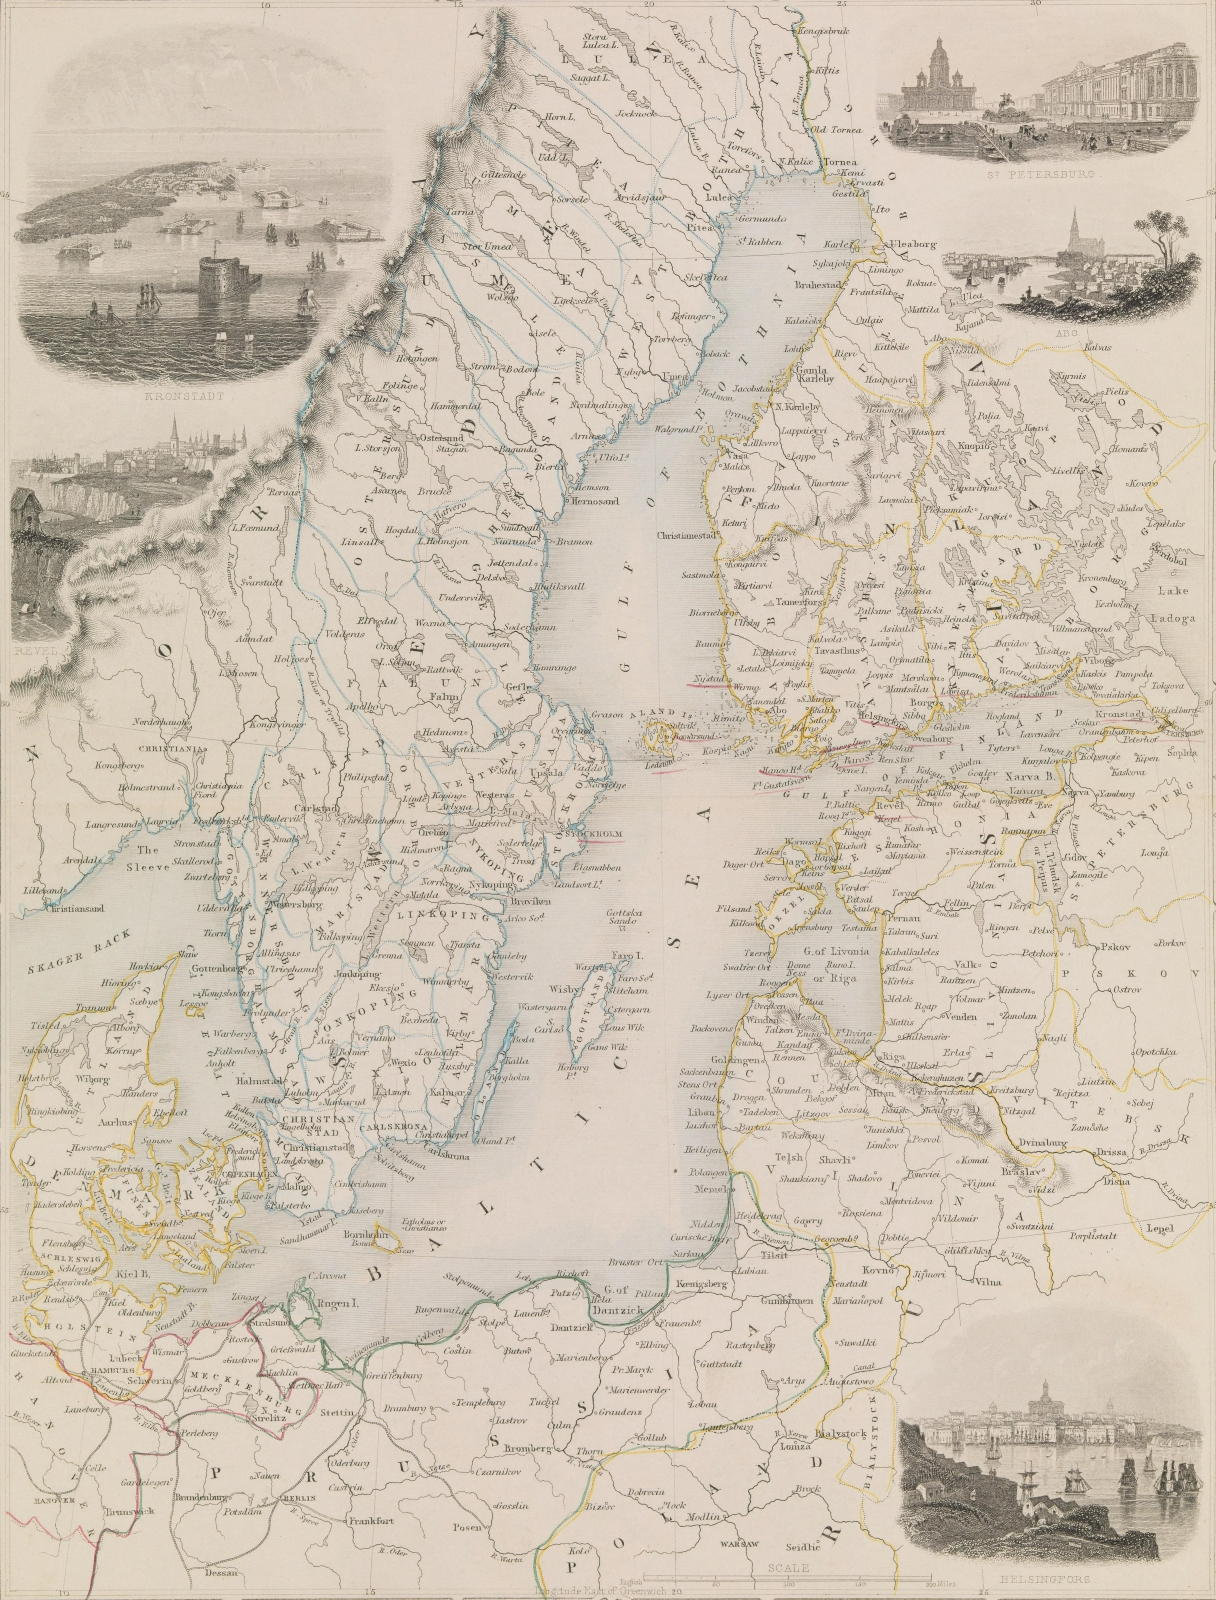
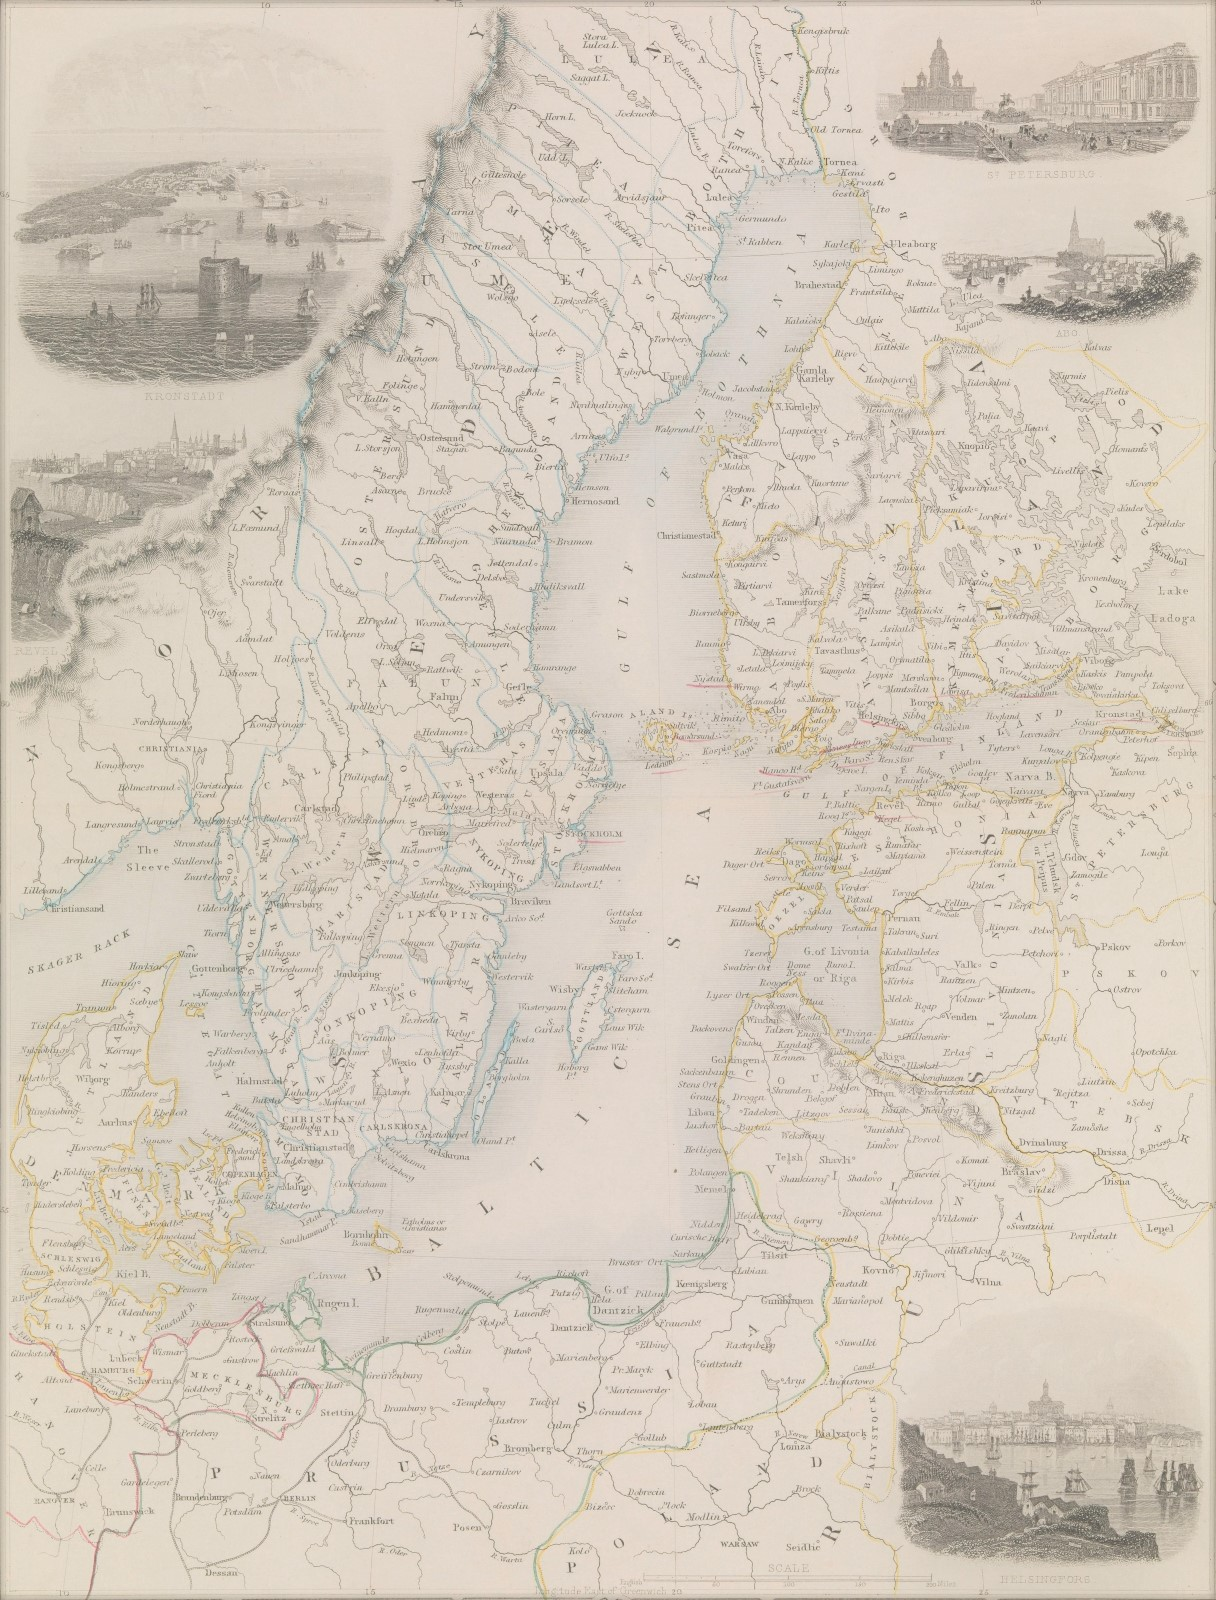
Added text-wrap and lowered picture colors.

diff --git a/_layouts/default.html b/_layouts/default.html
@@ -15,11 +15,11 @@
     <!-- HEADER -->
     <div class="header">
         <header class="inner-header" style="text-align: right;">
-            <a id="ENG" style="top: -10px; position: relative;" href="/stemma-workaround/eng/"><img alt="ENG" src="/stemma-workaround/assets/images/united-kingdom-flag-wave-icon-32.png" style="width:24px; height:16px"/></a>
-            <a id="FIN"  style="top: -10px; position: relative;" href="/stemma-workaround/fin/"><img alt="FIN" src="/stemma-workaround/assets/images/finland-flag-wave-icon-32.png" style="width:24px; height:16px"/></a>
-            <a id="SWE" style="top: -10px; position: relative;" href="/"><img alt="SWE" src="/stemma-workaround/assets/images/sweden-flag-wave-icon-32.png" style="width:24px; height:16px"/></a>
-	    <a id="GER" style="top: -10px; position: relative;" href="/"><img alt="GER" src="/stemma-workaround/assets/images/germany-flag-wave-icon-32.png" style="width:24px; height:16px"/></a>
-	    <a id="RUS"  style="top: -10px; position: relative;" href="/stemma-workaround/"><img alt="RUS" src="/stemma-workaround/assets/images/russia-flag-wave-icon-32.png" style="width:24px; height:16px"/></a>
+            <a id="ENG" style="top: -20px; position: relative;" href="/stemma-workaround/eng/"><img alt="ENG" src="/stemma-workaround/assets/images/united-kingdom-flag-wave-icon-32.png" style="width:24px; height:16px"/></a>
+            <a id="FIN"  style="top: -20px; position: relative;" href="/stemma-workaround/fin/"><img alt="FIN" src="/stemma-workaround/assets/images/finland-flag-wave-icon-32.png" style="width:24px; height:16px"/></a>
+            <a id="SWE" style="top: -20px; position: relative;" href="/"><img alt="SWE" src="/stemma-workaround/assets/images/sweden-flag-wave-icon-32.png" style="width:24px; height:16px"/></a>
+	    <a id="GER" style="top: -20px; position: relative;" href="/"><img alt="GER" src="/stemma-workaround/assets/images/germany-flag-wave-icon-32.png" style="width:24px; height:16px"/></a>
+	    <a id="RUS"  style="top: -20px; position: relative;" href="/stemma-workaround/"><img alt="RUS" src="/stemma-workaround/assets/images/russia-flag-wave-icon-32.png" style="width:24px; height:16px"/></a>
 
             <h1 id="project_title" style="text-align: center;">STEMMA</h1>
         </header>
@@ -37,8 +37,8 @@
     </div>
 
     <!-- FOOTER  -->
-    <div id="footer_wrap" class="outer">
-      <footer class="inner">
+    <div class="footer">
+      <footer class="inner-footer">
         <p class="contacts">Contact us <a name="contacts" href="mailto:stemma@example.com">Stemma Email</a></p>
         <p>Visit our FB group <a href="https://facebook.com">Stemma FB</a></p>
         <p>Join our Telegram group <a href="https://telegram.com">Stemma Telegram</a></p>

diff --git a/assets/css/style.scss b/assets/css/style.scss
@@ -158,9 +158,9 @@ h5 { font-size: 22px; }
 
 h6 { font-size: 16px; }
 
-p { margin: 10px 0 15px 0; }
+p { margin: 15px 0 10px 0; }
 
-footer p { color: #f2f2f2; }
+footer p { color: #f2f2f2; margin: 1px 0 1px 0; }
 
 a { text-decoration: none; color: #0F79D0; text-shadow: none; transition: color 0.5s ease; transition: text-shadow 0.5s ease; -webkit-transition: color 0.5s ease; -webkit-transition: text-shadow 0.5s ease; -moz-transition: color 0.5s ease; -moz-transition: text-shadow 0.5s ease; -o-transition: color 0.5s ease; -o-transition: text-shadow 0.5s ease; -ms-transition: color 0.5s ease; -ms-transition: text-shadow 0.5s ease; }
 
@@ -213,7 +213,7 @@ Full-Width Styles
 
 .header { position: fixed; width: 100%; top: 0; color: black; background-color: black; }
 
-.inner-header { position: relative; max-width: 1216px; padding: 20px 10px; margin: 0 auto; }
+.inner-header { position: relative; max-width: 1216px; padding: 30px 10px; margin: 0 auto; }
 
 #project_title { margin: 0; color: #fff; font-size: 42px; font-weight: 700; text-shadow: #111 0px 0px 10px; top: 50%; left: 50%; transform: translate(-50%, -50%); position: absolute; }
 
@@ -229,11 +229,13 @@ Full-Width Styles
 
 .tar_download_link:hover { background: url(../images/sprite_download.png) no-repeat top right; }
 
-#main_content_wrap { background: #f2f2f2; border-top: 1px solid #111; border-bottom: 1px solid #111; background-image: url("../images/without-borders_1216x1600.jpg"); background-repeat: no-repeat; background-attachment: fixed; background-size: auto; background-position: center top;}
+#main_content_wrap { background: #f2f2f2; border-top: 1px solid #111; border-bottom: 1px solid #111; background-image: url("../images/without-borders_1216x1600.jpg"); background-repeat: no-repeat; background-attachment: fixed; background-size: auto; background-position: center 75px; word-break: break-all; }
 
-#main_content { padding-top: 70px; padding-bottom: 430px; }
+#main_content { padding-top: 70px; padding-bottom: 510px; }
 
-#footer_wrap { background: #212121; }
+.footer { position: relative; width: 100%; bottom: 0; color: black; background-color: #212121; }
+
+.inner-footer { position: relative; max-width: 960px; padding: 10px 10px; margin: 0 auto; }
 
 /*******************************************************************************
 Small Device Styles
